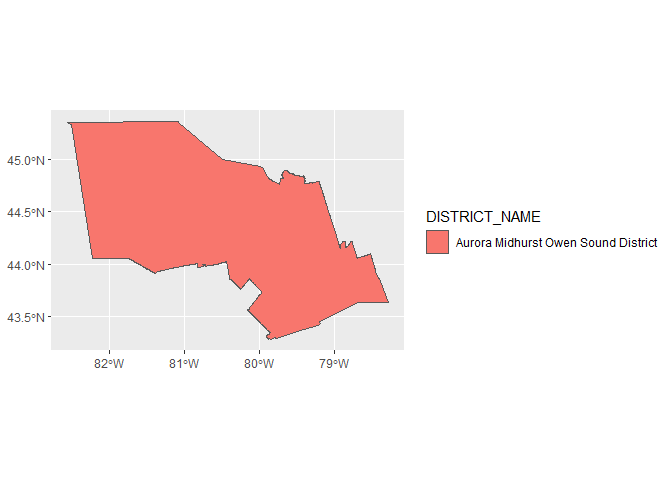
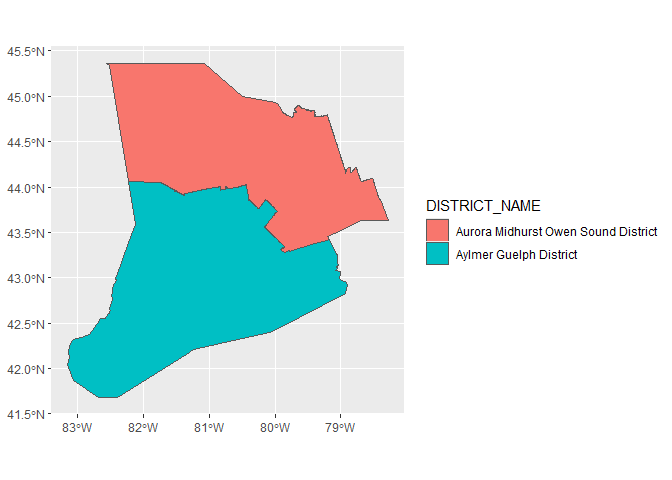
Updated readme with better waterbodies and districts.

diff --git a/README.md b/README.md
@@ -60,7 +60,15 @@ unique(fmz$FISHERIES_MANAGEMENT_ZONE_ID)
 ``` r
 my_plot <- ggplot2::ggplot() +
   ggplot2::geom_sf(data = fmz, aes(fill = FISHERIES_MANAGEMENT_ZONE_ID))
+print(my_plot)
 ```
+
+<figure>
+<img src="Readme_files/figure-gfm/fmz-1.png"
+alt="Simple map of Fisheries Management Zones 10,11, and 12." />
+<figcaption aria-hidden="true">Simple map of Fisheries Management Zones
+10,11, and 12.</figcaption>
+</figure>
 
 # MNR Districts
 
@@ -79,11 +87,11 @@ unique(dist$DISTRICT_NAME)
     ## [1] "Aurora Midhurst Owen Sound District"
 
 ``` r
-dist <- fetch_mnr_district(name_like = c("Aurora", "Owen Sound"))
+dist <- fetch_mnr_district(name_like = c("Aurora", "Guelph"))
 unique(dist$DISTRICT_NAME)
 ```
 
-    ## [1] "Aurora Midhurst Owen Sound District"
+    ## [1] "Aurora Midhurst Owen Sound District" "Aylmer Guelph District"
 
 ``` r
 my_plot <- ggplot2::ggplot() +
@@ -91,7 +99,12 @@ my_plot <- ggplot2::ggplot() +
 print(my_plot)
 ```
 
-![](Readme_files/figure-gfm/district-1.png)<!-- -->
+<figure>
+<img src="Readme_files/figure-gfm/district-1.png"
+alt="Simple map of Aurora and Guelph Districts." />
+<figcaption aria-hidden="true">Simple map of Aurora and Guelph
+Districts.</figcaption>
+</figure>
 
 # Conservation Authorities
 
@@ -123,7 +136,12 @@ my_plot <- ggplot2::ggplot() +
 print(my_plot)
 ```
 
-![](Readme_files/figure-gfm/conservation_authority-1.png)<!-- -->
+<figure>
+<img src="Readme_files/figure-gfm/conservation_authority-1.png"
+alt="Simple map of Saugeen and Maitland Con. Auth." />
+<figcaption aria-hidden="true">Simple map of Saugeen and Maitland Con.
+Auth.</figcaption>
+</figure>
 
 # Waterbodies
 
@@ -173,7 +191,7 @@ print(
     ## 7            lac des Bois                   <NA> POLYGON ((-95.07566 49.3717...
 
 ``` r
-wby <- fetch_waterbody(name_like = c("Saugeen", "Bruce"))
+wby <- fetch_waterbody(name_like = c("Shanty Bay", "Begman"))
 
 print(
   wby[
@@ -193,40 +211,24 @@ print(
     ## Simple feature collection with 7 features and 6 fields
     ## Geometry type: GEOMETRY
     ## Dimension:     XY
-    ## Bounding box:  xmin: -81.37382 ymin: 43.95413 xmax: -79.51786 ymax: 48.81057
+    ## Bounding box:  xmin: -92.77238 ymin: 45.01518 xmax: -77.63065 ymax: 51.15783
     ## Geodetic CRS:  WGS 84
-    ##   WATERBODY_IDENT                OFFICIAL_NAME WATERBODY_IDENT.1
-    ## 1   17-4709-49273                Saugeen River     17-4709-49273
-    ## 2   17-5093-48939          Rocky Saugeen River     17-5093-48939
-    ## 3   17-4979-48866         Beatty Saugeen River     17-4979-48866
-    ## 4   17-6065-54060                Saugeen Creek     17-6065-54060
-    ## 5   17-4973-48883          South Saugeen River     17-4973-48883
-    ## 6   17-5267-49065 West Arm Rocky Saugeen River     17-5267-49065
-    ## 7   17-4787-49069          North Saugeen River     17-4787-49069
-    ##   UNOFFICIAL_NAME OFFICIAL_ALTERNATE_NAME
-    ## 1            <NA>                    <NA>
-    ## 2            <NA>                    <NA>
-    ## 3            <NA>                    <NA>
-    ## 4            <NA>                    <NA>
-    ## 5            <NA>                    <NA>
-    ## 6            <NA>                    <NA>
-    ## 7            <NA>                    <NA>
-    ##                   EQUIVALENT_FRENCH_NAME                       geometry
-    ## 1                        rivière Saugeen MULTIPOLYGON (((-81.34123 4...
-    ## 2                  rivière Rocky Saugeen MULTIPOLYGON (((-80.66386 4...
-    ## 3                 rivière Beatty Saugeen MULTIPOLYGON (((-81.00437 4...
-    ## 4                       ruisseau Saugeen POLYGON ((-79.54293 48.8078...
-    ## 5                    rivière Saugeen Sud MULTIPOLYGON (((-80.47771 4...
-    ## 6 bras Ouest de la rivière Rocky Saugeen POLYGON ((-80.66452 44.3134...
-    ## 7                   rivière Saugeen Nord MULTIPOLYGON (((-81.25838 4...
-
-``` r
-my_plot <- ggplot2::ggplot() +
-  ggplot2::geom_sf(data = wby, aes(fill = WATERBODY_IDENT))
-print(my_plot)
-```
-
-![](Readme_files/figure-gfm/waterbody-1.png)<!-- -->
+    ##   WATERBODY_IDENT          OFFICIAL_NAME WATERBODY_IDENT.1 UNOFFICIAL_NAME
+    ## 1   17-5752-50666       Shanty Bay Lakes     17-5752-50666            <NA>
+    ## 2   17-6195-49857             Shanty Bay     17-6195-49857            <NA>
+    ## 3   17-5752-50668 Middle Shanty Bay Lake     17-5752-50668            <NA>
+    ## 4   17-5752-50667             Shanty Bay     17-5752-50667            <NA>
+    ## 5   17-5480-51138             Shanty Bay     17-5480-51138            <NA>
+    ## 6   15-5163-56645             Shanty Bay     15-5163-56645            <NA>
+    ## 7   18-2949-50620       Burnt Shanty Bay     18-2949-50620            <NA>
+    ##   OFFICIAL_ALTERNATE_NAME EQUIVALENT_FRENCH_NAME                       geometry
+    ## 1                    <NA> lacs de la baie Shanty MULTIPOLYGON (((-80.03624 4...
+    ## 2                    <NA>            baie Shanty POLYGON ((-79.48439 45.0152...
+    ## 3                    <NA>  lac Middle Shanty Bay POLYGON ((-80.02483 45.7531...
+    ## 4                    <NA>            baie Shanty POLYGON ((-80.02659 45.7473...
+    ## 5                    <NA>            baie Shanty POLYGON ((-80.37812 46.1778...
+    ## 6                    <NA>            baie Shanty POLYGON ((-92.76747 51.1578...
+    ## 7                    <NA>      baie Burnt Shanty POLYGON ((-77.63095 45.6869...
 
 ``` r
 wby <- fetch_waterbody(wbylid = "15-3726-54565")
@@ -256,8 +258,16 @@ print(
     ## 1            lac des Bois                   <NA> POLYGON ((-95.07566 49.3717...
 
 ``` r
-# Lake of the Woods and Slippery Lake (to the north west of LOW)
-wby <- fetch_waterbody(wbylid = c("15-3726-54565", "15-3726-54565"))
+# three lakes in close proximity to each other:
+# "15-4877-53939" Rainy Lake
+# "15-3726-54565" Lake of the woods
+# "15-4390-54514" Kakagi Lake
+
+wbylids <- c("15-4877-53939",
+  "15-3726-54565",
+  "15-4390-54514")
+
+wby <- fetch_waterbody(wbylid = wbylids)
 print(
   wby[
     ,
@@ -273,15 +283,19 @@ print(
 )
 ```
 
-    ## Simple feature collection with 1 feature and 6 fields
-    ## Geometry type: POLYGON
+    ## Simple feature collection with 3 features and 6 fields
+    ## Geometry type: GEOMETRY
     ## Dimension:     XY
-    ## Bounding box:  xmin: -95.07566 ymin: 48.84562 xmax: -93.82818 ymax: 49.77069
+    ## Bounding box:  xmin: -95.07566 ymin: 48.48244 xmax: -92.54676 ymax: 49.77069
     ## Geodetic CRS:  WGS 84
     ##   WATERBODY_IDENT     OFFICIAL_NAME WATERBODY_IDENT.1 UNOFFICIAL_NAME
-    ## 1   15-3726-54565 Lake of the Woods     15-3726-54565            <NA>
+    ## 1   15-4390-54514       Kakagi Lake     15-4390-54514            <NA>
+    ## 2   15-4877-53939        Rainy Lake     15-4877-53939            <NA>
+    ## 3   15-3726-54565 Lake of the Woods     15-3726-54565            <NA>
     ##   OFFICIAL_ALTERNATE_NAME EQUIVALENT_FRENCH_NAME                       geometry
-    ## 1            lac des Bois                   <NA> POLYGON ((-95.07566 49.3717...
+    ## 1                    <NA>             lac Kakagi POLYGON ((-93.67178 49.2067...
+    ## 2          lac à la Pluie                   <NA> MULTIPOLYGON (((-93.63527 4...
+    ## 3            lac des Bois                   <NA> POLYGON ((-95.07566 49.3717...
 
 ``` r
 my_plot <- ggplot2::ggplot() +
@@ -289,7 +303,12 @@ my_plot <- ggplot2::ggplot() +
 print(my_plot)
 ```
 
-![](Readme_files/figure-gfm/waterbody-2.png)<!-- -->
+<figure>
+<img src="Readme_files/figure-gfm/waterbody-1.png"
+alt="Simple map of some selected waterbodies." />
+<figcaption aria-hidden="true">Simple map of some selected
+waterbodies.</figcaption>
+</figure>
 
 # Provincial Parks
 
@@ -306,11 +325,11 @@ unique(ppark$COMMON_SHORT_NAME)
     ## [1] "ALGONQUIN"
 
 ``` r
-ppark <- fetch_provincial_park(name_like = c("Algonquin", "Inverhuron"))
+ppark <- fetch_provincial_park(name_like = c("MacGregor", "Inverhuron"))
 unique(ppark$COMMON_SHORT_NAME)
 ```
 
-    ## [1] "INVERHURON  " "ALGONQUIN"
+    ## [1] "MACGREGOR POINT  " "INVERHURON  "
 
 ``` r
 my_plot <- ggplot2::ggplot() +
@@ -318,7 +337,12 @@ my_plot <- ggplot2::ggplot() +
 print(my_plot)
 ```
 
-![](Readme_files/figure-gfm/parks-1.png)<!-- -->
+<figure>
+<img src="Readme_files/figure-gfm/parks-1.png"
+alt="Simple map of some selected provincial parks." />
+<figcaption aria-hidden="true">Simple map of some selected provincial
+parks.</figcaption>
+</figure>
 
 # Townships
 
@@ -346,4 +370,9 @@ my_plot <- ggplot2::ggplot() +
 print(my_plot)
 ```
 
-![](Readme_files/figure-gfm/townships-1.png)<!-- -->
+<figure>
+<img src="Readme_files/figure-gfm/townships-1.png"
+alt="Simple map of some selected townships." />
+<figcaption aria-hidden="true">Simple map of some selected
+townships.</figcaption>
+</figure>
